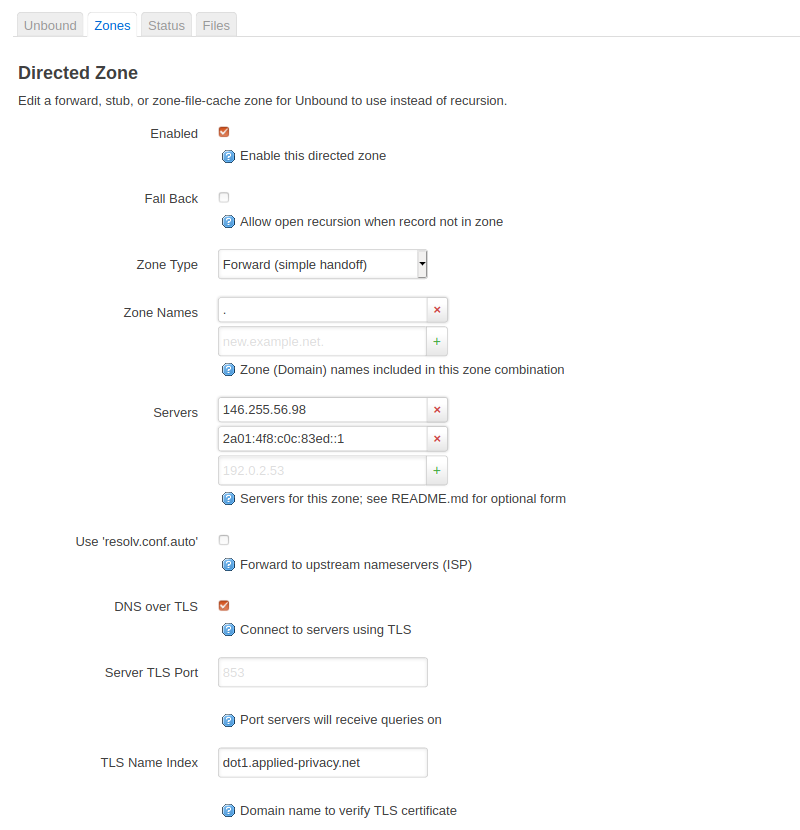
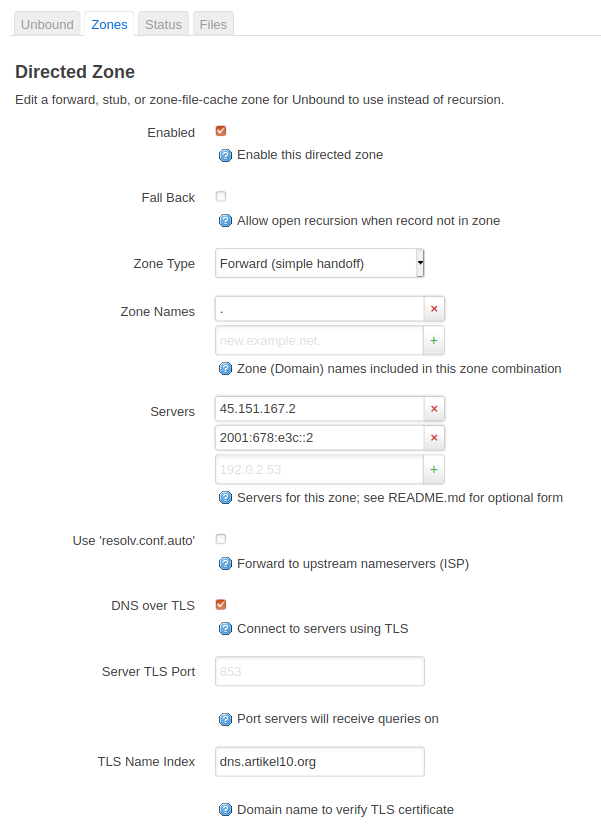
Add DNS resolver information

diff --git a/content/blog/2020/01/dns-over-tls-mit-openwrt.md b/content/blog/2020/01/dns-over-tls-mit-openwrt.md
@@ -2,7 +2,7 @@
 title: DNS-over-TLS mit OpenWrt
 date: 2020-01-19T13:12:41+01:00
 type: post
-tags: [dns-over-tls, dot, dns, openwrt]
+tags: [dns, openwrt]
 ---
 
 Webseiten ohne HTTPS sind zum Glück selten geworden. Allerdings werden
@@ -73,7 +73,7 @@ Eine neue Zone anlegen und konfigurieren:
 | _DNS over TLS_ | Option aktivieren. |
 | _TLS Name Index_ | Hostnamen des DoT Servers eintragen. |
 
-Beispiel für [`dot1.applied-privacy.net`](https://applied-privacy.net/services/dns/):
+Beispiel für [dns.artikel10.org](https://dns.artikel10.org/):
 
 [![OpenWrt Unbound Zone](openwrt-unbound-zone.png)](openwrt-unbound-zone.png)
 
@@ -85,7 +85,7 @@ _Status / Processes_ neugestartet werden:
 * Unbound (_/usr/sbin/unbound_) per _Hang Up_ neustarten.
 
 Zu diesem Zeitpunkt sollten öffentliche DNS-Anfragen an den DoT Server gehen.
-Dies lässt sich mit dem [DNS Leak Test][] prüfen, der eine der konfigurierten
+Dies lässt sich mit einem [DNS Leak Test][] prüfen, der die konfigurierten
 IP-Adressen anzeigen sollte.
 
 Idealerweise validiert der DoT Server auch [DNSSEC][], was z.B. der
@@ -109,7 +109,7 @@ werden. Der [DNS Leak Test][] sollte dann den gewählten DoT Server anzeigen!
 
 Basierend auf [DNS over TLS with Unbound][].
 
-[dns leak test]: https://dnsleaktest.com/
+[dns leak test]: https://browserleaks.com/dns
 [dns over tls with unbound]: https://openwrt.org/docs/guide-user/services/dns/dot_unbound
 [dns-over-tls]: https://de.wikipedia.org/wiki/DNS_over_TLS
 [dns]: https://de.wikipedia.org/wiki/Domain_Name_System

diff --git a/content/dienste/dns-resolver.md b/content/dienste/dns-resolver.md
@@ -1,0 +1,22 @@
+---
+title: DNS Resolver
+date: 2020-10-19T17:37:19+02:00
+type: page
+layout: single
+---
+
+Am Anfang fast aller Internet-Kommunikation stehen [DNS][]-Anfragen, die gegen
+Überwachung und Manipulation genau wie die eigentliche Kommunikation geschützt
+werden müssen.
+
+Der Verein betreibt unter [dns.artikel10.org](https://dns.artikel10.org/) einen
+sicheren DNS Resolver:
+
+* DNS over HTTPS: `https://dns.artikel10.org/dns-query`
+* DNS over TLS: `dns.artikel10.org`
+* IPv4: `45.151.167.2`
+* IPv6: `2001:678:e3c::2`
+
+Konfigurationshinweise finden sich auf der Webseite des DNS Resolvers.
+
+[dns]: https://de.wikipedia.org/wiki/Domain_Name_System

diff --git a/content/dienste/_index.md b/content/dienste/_index.md
@@ -5,6 +5,8 @@ type: page
 layout: single
 ---
 
-Vom Verein betriebene Dienste:
+Artikel10 betreibt verschiedene Datenschutz-förderliche Dienste:
 
+* [DNS Resolver](/dienste/dns-resolver)
 * [Tor Relays](/dienste/tor-relays)
+* [Statusseite](https://status.artikel10.org/) für unsere Dienste
